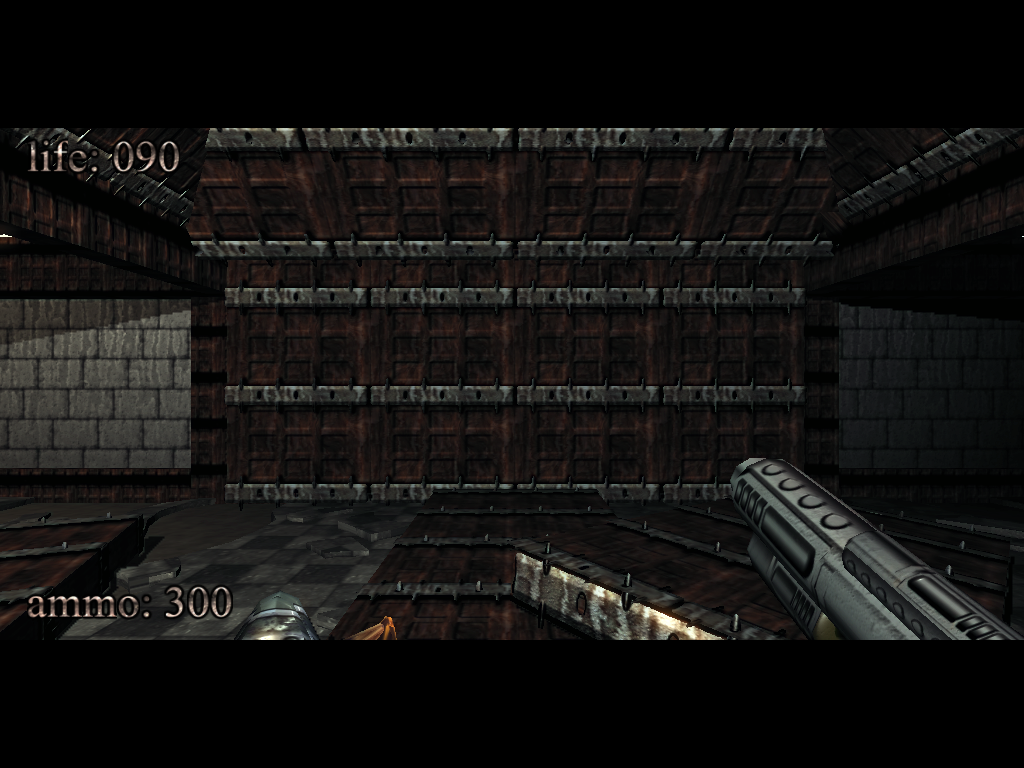
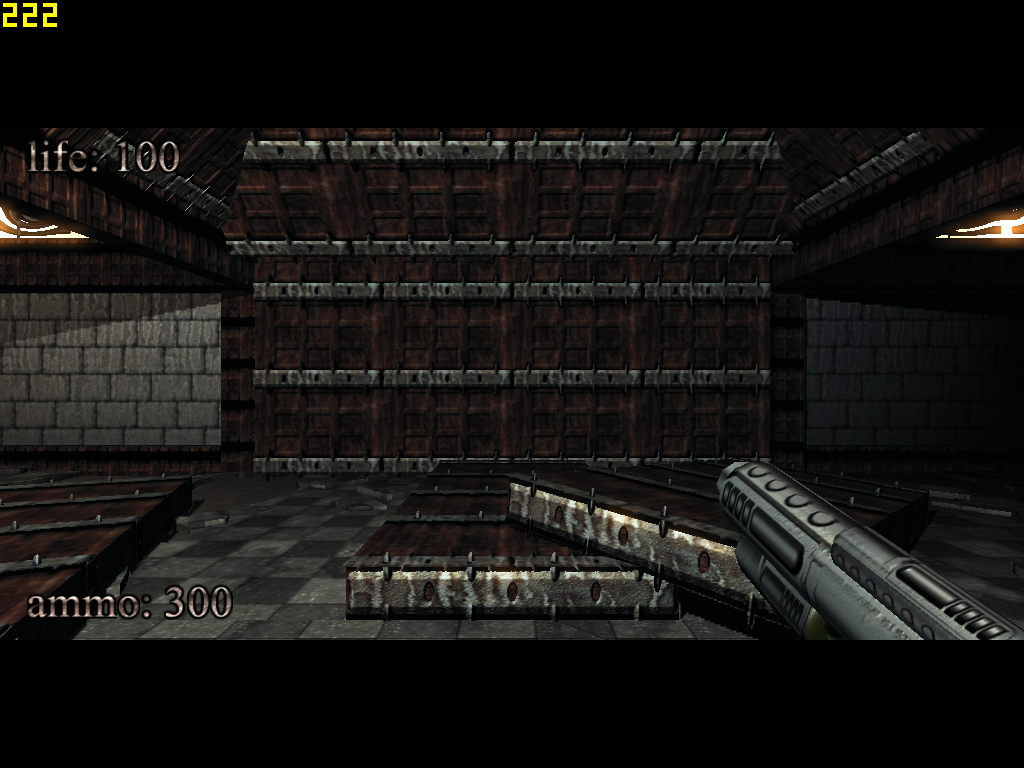
add fraps

Changed region(s): [[0.0, 0.1562, 1.0, 0.8438], [0.9062, 0.625, 1.0, 0.7188], [0.0, 0.0, 0.0625, 0.0312]]

diff --git a/main.py b/main.py
@@ -34,10 +34,13 @@ def main():
 
 if __name__ == "__main__":
     startfile('pno0001.exe')
+    sleep(15)
+    pydirectinput.press('f11')
     screen = pyautogui.screenshot('screenshot.png')
     sleep(30)
     pydirectinput.press('enter', presses=2)
     pydirectinput.keyDown('w')
+    pydirectinput.press('f11')
     sleep(20)
     screen = pyautogui.screenshot('screenshot1.png')
     for proc in process_iter():
